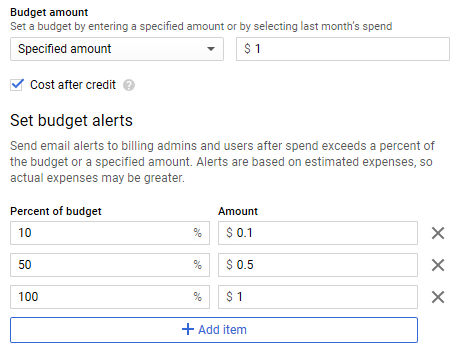
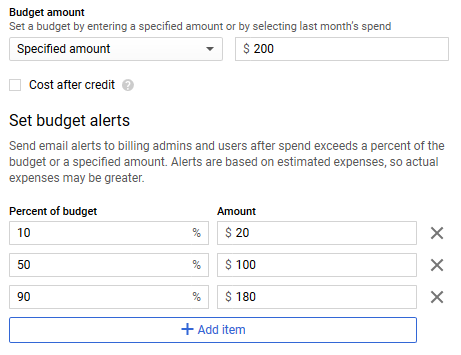
add instructions for Mac

diff --git a/README.md b/README.md
@@ -25,7 +25,16 @@ Failing to protect your Google Maps API key may lead to unexpected charges to yo
 
 ## Step-by-step Procedure
 
-This procedure was developed and tested with Lightroom 6.14 on Windows 10. Other operating systems and versions of Lightroom might differ. Please let us know if you had success (or not) with other version of Lightroom. You can do so by opening an [issue](https://github.com/astuder/lightroom-map-fix/issues). We also welcome any contributions that refine this process.
+This procedure was developed and tested with Lightroom 6.14 on Windows 10.
+
+Users reported that this also works with:
+- Lightroom 6.14 Windows 8.1 
+- Lightroom 6.14 Windows 7 Enterprise 64bit
+- Lightroom 6.14 Mac
+
+A big Thank You! to everyone that contributed with their feedback!
+
+Please let us know if you had success (or not) with other version of Lightroom. You can do so by opening an [issue](https://github.com/astuder/lightroom-map-fix/issues). We also welcome any input on refining this process.
 
 ### 1. Create your personal Google Maps API key
 
@@ -49,11 +58,13 @@ If Lightroom is still running, close it now.
 
 Locate the application files of Lightroom, and look for a file called `Location.lrmodule`. This is the Lightroom Map module. Make a backup copy of this file and keep it in a safe place.
 
-The location and the file name may vary with the operating system and version of Lightroom. For Lightroom 6 64-bit on Windows 10, the Map module can be found at `C:\Program Files\Adobe\Lightroom\Location.lrmodule`
+The location and the file name may vary with the operating system and version of Lightroom.
+- For Lightroom 6.14 64-bit on Windows 10, the Map module is the file `C:\Program Files\Adobe\Lightroom\Location.lrmodule`
+- For Lightroom 6.14 on Mac, the Map module is the folder `/Applications/Adobe Lightroom/Adobe Lightroom.app/Contents/PlugIns/Location.agmodule` 
 
 ### 4. Extract Lua files for patching
 
-Use [Resource Hacker](http://www.angusj.com/resourcehacker/) to extract the Lua resources we need to patch:
+On Windows, use [Resource Hacker](http://www.angusj.com/resourcehacker/) to extract the Lua resources we need to patch:
 - Open `Location.lrmodule` with Resource Hacker
 - Expand the section `LUA`
 - On `LOCATIONMAPVIEW.LUA`, right-click and select *save bin resource*
@@ -61,36 +72,46 @@ Use [Resource Hacker](http://www.angusj.com/resourcehacker/) to extract the Lua 
 
 ![Screenshot of Resource Hacker with save menu](images/ResourceHackerSave.PNG)
 
+On Mac, the Lua files are directly accessible inside the `Location.agmodule` folder:
+- Open the folder `/Applications/Adobe Lightroom/Adobe Lightroom.app/Contents/PlugIns/Location.agmodule/Contents/Resources/`
+- Copy the files `LocationMapView.lua` and `AgReverseGeocodeService.lua` to the desired location for patching
+
 ### 5. Patch Lua files with your Google Maps API key
 
 If you haven't already, install [Python 3](https://www.python.org/downloads/).
 
 For each Lua file, use the Python script [patchluastr.py](patchluastr.py) to replace Adobe's key with your personal Google Maps API key.
 
-Open a command prompt, navigate to the folder where you stored patchluastr.py and enter:
+Open a command prompt, navigate to the folder where you stored patchluastr.py.
+
+On Windows the name of the patched Lua file must end with `.bin`, otherwise Resource Hacker won't find it in the next step. The run `patchluastr.py` like:
 ```
-patchluastr.py original-file "client=gme-adobesystems" "key={your-api-key}" -o {patched-file}.bin
+patchluastr.py {original-file} "client=gme-adobesystems" "key={your-api-key}" -o {patched-file}.bin
 ```
 
-The name of the patched Lua file must end with `.bin`, otherwise Resource Hacker won't find it in the next step. 
-
-__Experimental__: I made an executable version of the Python script available [here](https://github.com/astuder/lightroom-map-fix/blob/master/patchluastr-win10.zip), which does not require to install Python. The command line is:
+On Mac, the name of the patched Lua file must be identical with the original file. The easiest is to first rename the orignal file, e.g. to `orignal-name.lua.bak`. Then run `patchluastr.py` like:
 ```
-patchluastr.exe original-file "client=gme-adobesystems" "key={your-api-key}" -o {patched-file}.bin
+patchluastr.py {original-file} "client=gme-adobesystems" "key={your-api-key}" -o {patched-file}.lua
+```
+
+__Experimental__: For Windows users that don't want to install Python, I made an executable version of `patchluastr` available [here](https://github.com/astuder/lightroom-map-fix/blob/master/patchluastr-win10.zip), which does not require to install Python. The command line is:
+```
+patchluastr.exe {original-file} "client=gme-adobesystems" "key={your-api-key}" -o {patched-file}.bin
 ```
 
 ### 6. Update Lightroom Map module with patched Lua files
 
-Use [Resource Hacker](http://www.angusj.com/resourcehacker/) to replace the Lua resources with their patched version.
+On Windows, use [Resource Hacker](http://www.angusj.com/resourcehacker/) to replace the Lua resources with their patched version.
 - Open `Location.lrmodule` with Resource Hacker
 - Expand the section `LUA`
 - On `LOCATIONMAPVIEW.LUA`, right-click and select *Replace Resource*, then click *Select File* and navigate to the patched version of this resource. Then click *Replace*
 - On `AGREVERSEGEOCODESERVICE.LUA` right-click and select *Replace Resource*, then click *Select File* and navigate to the patched version of this resource. Then click *Replace*.
 - Save `Location.lrmodule`. Depending on permissions, you may have to use *Save as* and then copy the modified file back into `C:\Program Files\Adobe\Lightroom\`
+- The patched version of Location.lrmodule may be significantly smaller than the original. Don't worry :-)
 
 ![Screenshot of Resource Hacker with replace menu](images/ResourceHackerReplace.PNG)
 
-The patched version of Location.lrmodule may be significantly smaller than the original. Don't worry :-)
+On Mac, copy the patched Lua files back into `/Applications/Adobe Lightroom/Adobe Lightroom.app/Contents/PlugIns/Location.agmodule/Contents/Resources/`.
 
 ### 7. Enjoy!
 
@@ -145,6 +166,6 @@ Costs and terms of service may differ by country. Please carefully review detail
 
 200 USD is enough for over 28000 map loads or 40000 calls to the Geo Coding API, which should be enough for casual use of the Lightroom Map module. To avoid surprises, you can set [budgets](https://cloud.google.com/billing/docs/how-to/budgets) or [quotas](https://cloud.google.com/apis/docs/capping-api-usage). Budgets will send an email alert when a configured amount is exceeded, whereas quotas will turn off the API.
 
-We recommend to configure a budget of 1 USD and a first alert at 10%. With this configuration, Google will send you an email if you spend more than 10 cents of your own money.
+We recommend to configure a budget of 200 USD (or whatever the monthly credit is in your country) and alerts at 10%, 50% and 90%. With this configuration, Google will send you emails when you get close to using your free credits.
 
 ![Screenshot of budget configuration](images/Budget.PNG)
